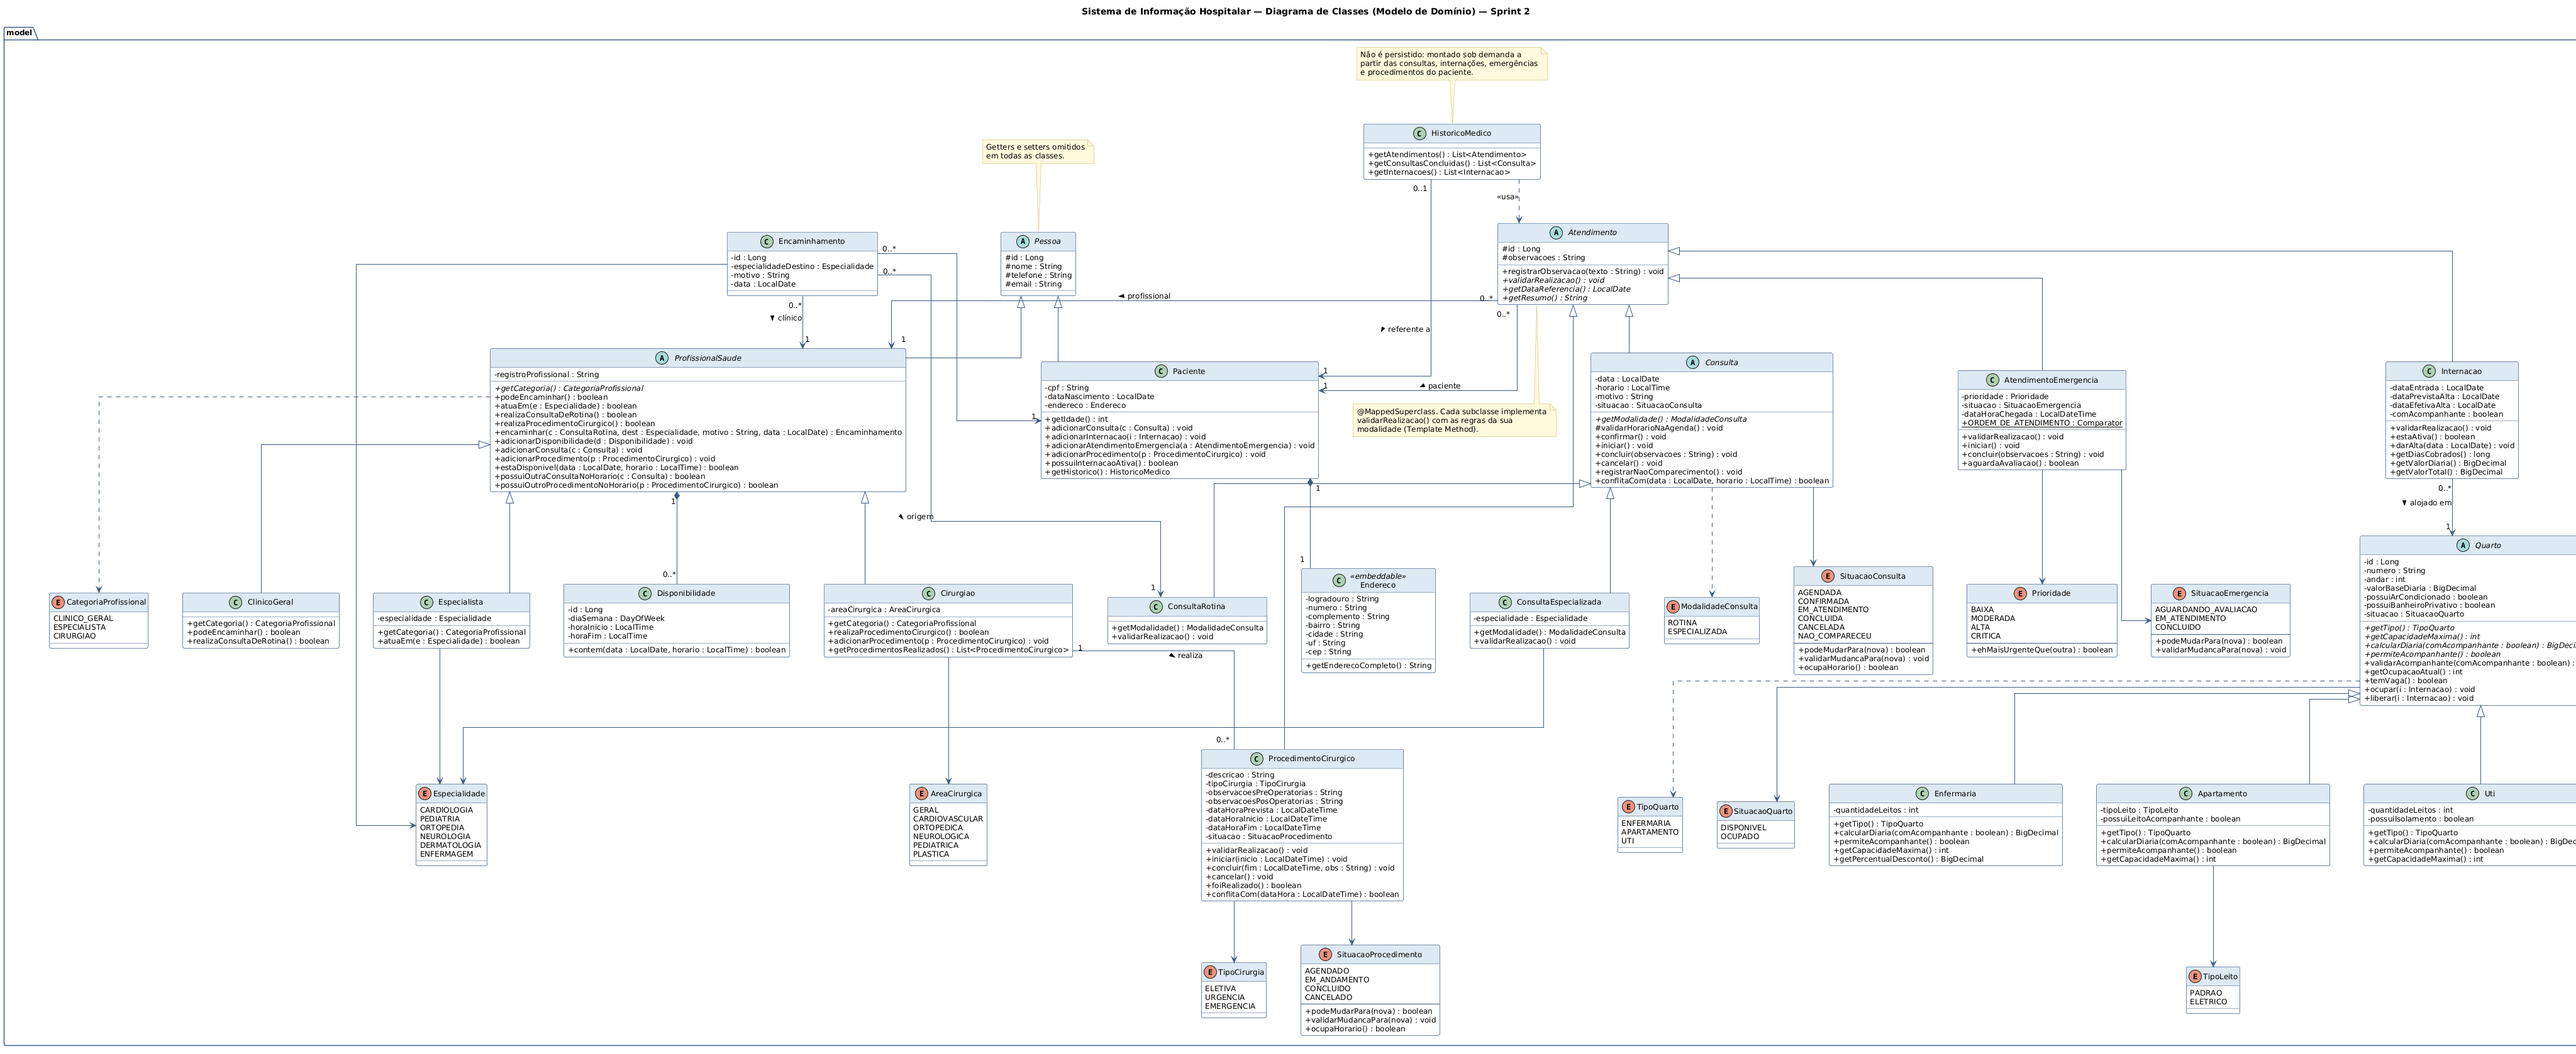
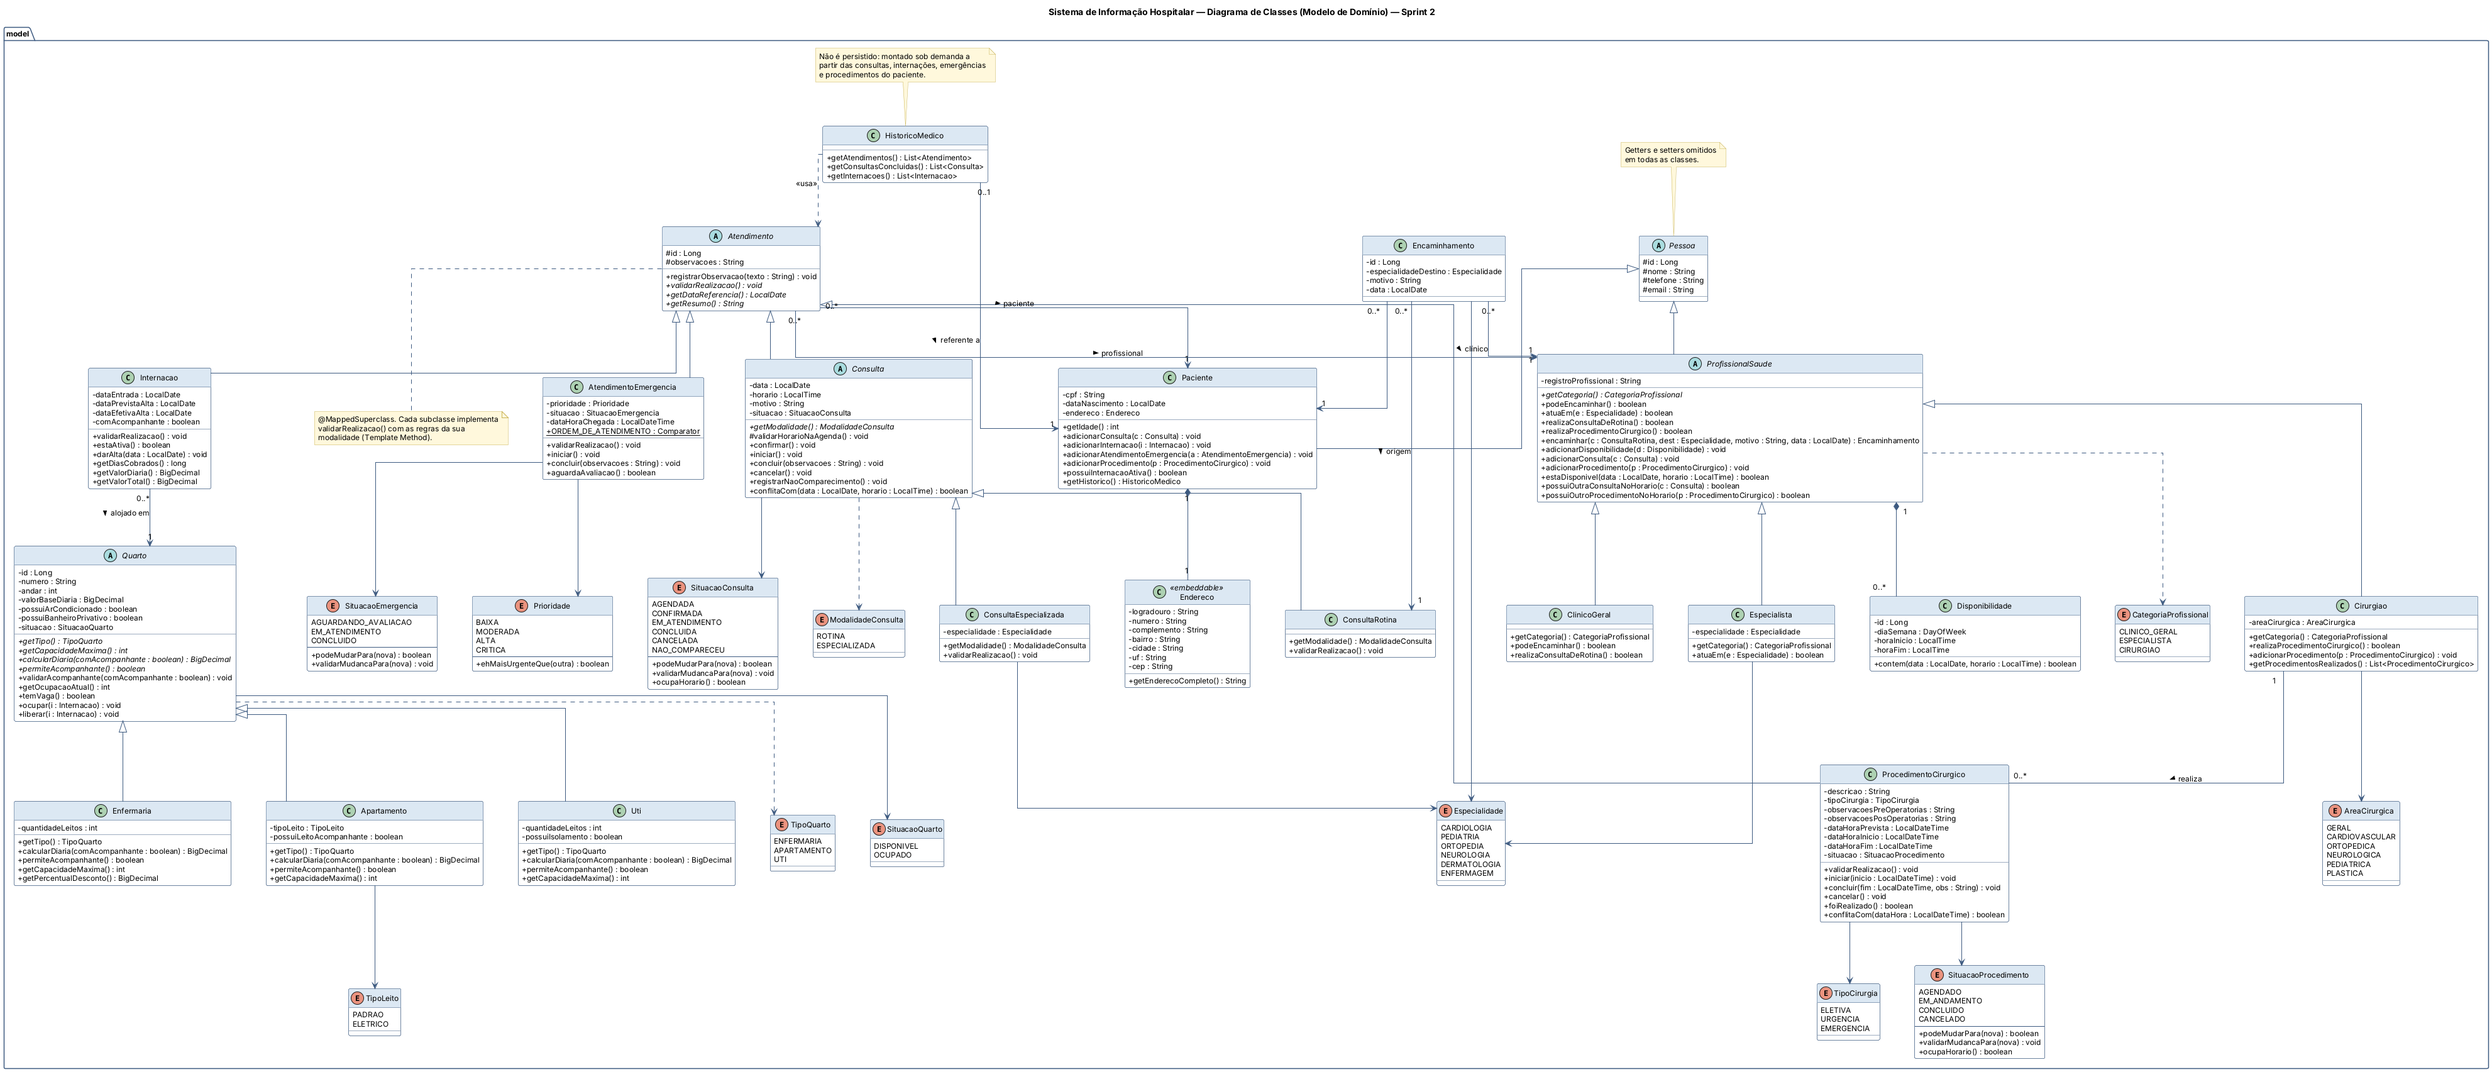
Corrige comando do perfil h2, status do encaminhamento e imagem do diagrama

diff --git a/src/main/java/br/pucminas/sih/controller/ConsultaController.java b/src/main/java/br/pucminas/sih/controller/ConsultaController.java
@@ -12,6 +12,7 @@ import java.net.URI;
 import java.time.LocalDate;
 import java.util.List;
 import org.springframework.format.annotation.DateTimeFormat;
+import org.springframework.http.HttpStatus;
 import org.springframework.http.ResponseEntity;
 import org.springframework.web.bind.annotation.GetMapping;
 import org.springframework.web.bind.annotation.PatchMapping;
@@ -85,7 +86,7 @@ public class ConsultaController {
 	@PostMapping("/{id}/encaminhamentos")
 	public ResponseEntity<EncaminhamentoResponse> encaminhar(@PathVariable Long id, @RequestBody @Valid EncaminhamentoRequest request) {
 		EncaminhamentoResponse encaminhamento = consultaService.encaminhar(id, request);
-		return ResponseEntity.ok(encaminhamento);
+		return ResponseEntity.status(HttpStatus.CREATED).body(encaminhamento);
 	}
 
 	private ResponseEntity<ConsultaResponse> criada(ConsultaResponse consulta, UriComponentsBuilder uriBuilder) {

diff --git a/README.md b/README.md
@@ -38,7 +38,7 @@ No Linux ou macOS, use `./mvnw spring-boot:run`.
 Para testar rapidamente, sem instalar nada além do JDK. Os dados ficam em memória e somem ao fechar a aplicação.
 
 ```bash
-.\mvnw.cmd spring-boot:run -Dspring-boot.run.profiles=h2
+.\mvnw.cmd spring-boot:run "-Dspring-boot.run.profiles=h2"
 ```
 
 A aplicação sobe em [http://localhost:8080](http://localhost:8080).
